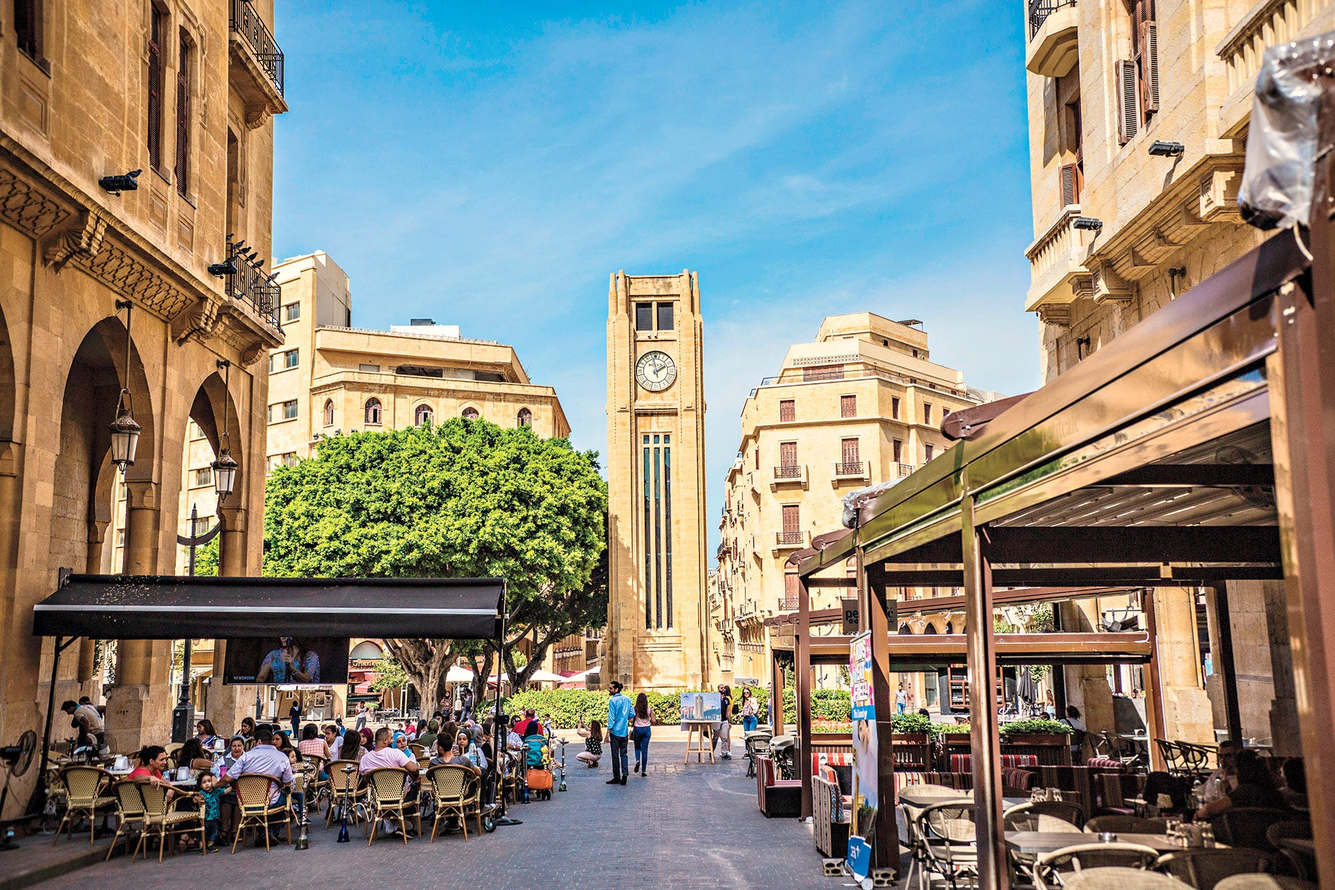
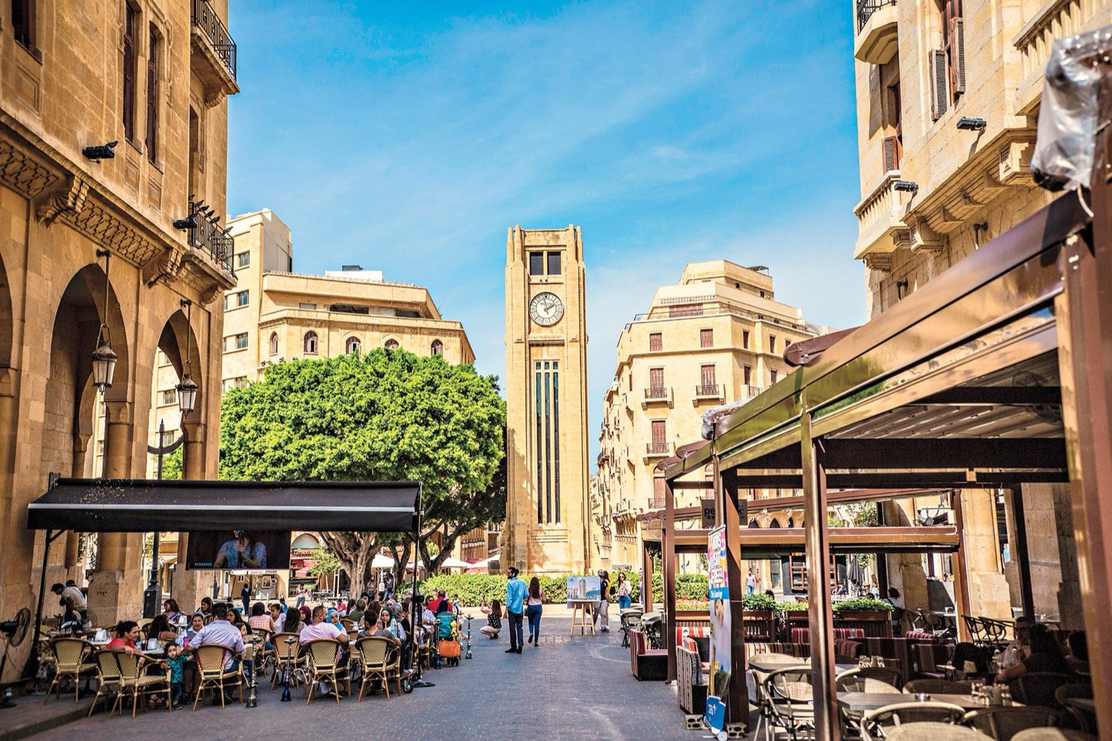
Add geo to LocalBusiness schema; optimize images (43MB -> 4.9MB)
- index.html / fr/index.html: add GeoCoordinates to the LocalBusiness node
  (audit asked for phone + geo).
- brand_assets: resize over-large source images to display dimensions and
  recompress (sips). Hero 3.2MB -> 296KB; fashion-1 9.6MB -> 264KB; total
  brand_assets 43MB -> 4.9MB. Big mobile LCP win for launch. Originals
  remain in git history.

diff --git a/fr/index.html b/fr/index.html
@@ -677,6 +677,7 @@
         "email": "contact@ateliersanstitre.com",
         "telephone": "+961 78 90 26 28",
         "address": { "@type": "PostalAddress", "addressLocality": "Beirut", "addressCountry": "LB" },
+        "geo": { "@type": "GeoCoordinates", "latitude": 33.8870653, "longitude": 35.5206735 },
         "areaServed": ["LB", "Lebanon", "Middle East", "Gulf"],
         "sameAs": ["https://www.instagram.com/ateliersanstitre"]
       },

diff --git a/index.html b/index.html
@@ -677,6 +677,7 @@
         "email": "contact@ateliersanstitre.com",
         "telephone": "+961 78 90 26 28",
         "address": { "@type": "PostalAddress", "addressLocality": "Beirut", "addressCountry": "LB" },
+        "geo": { "@type": "GeoCoordinates", "latitude": 33.8870653, "longitude": 35.5206735 },
         "areaServed": ["LB", "Lebanon", "Middle East", "Gulf"],
         "sameAs": ["https://www.instagram.com/ateliersanstitre"]
       },
